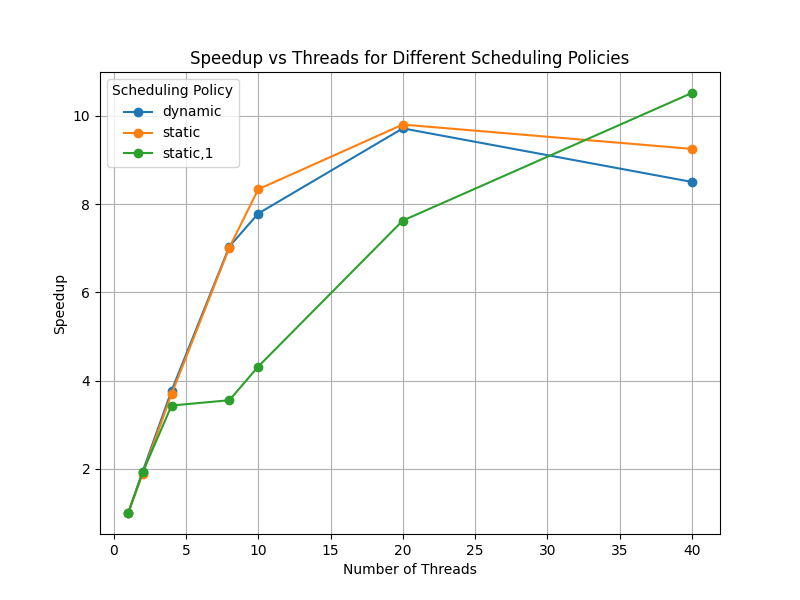
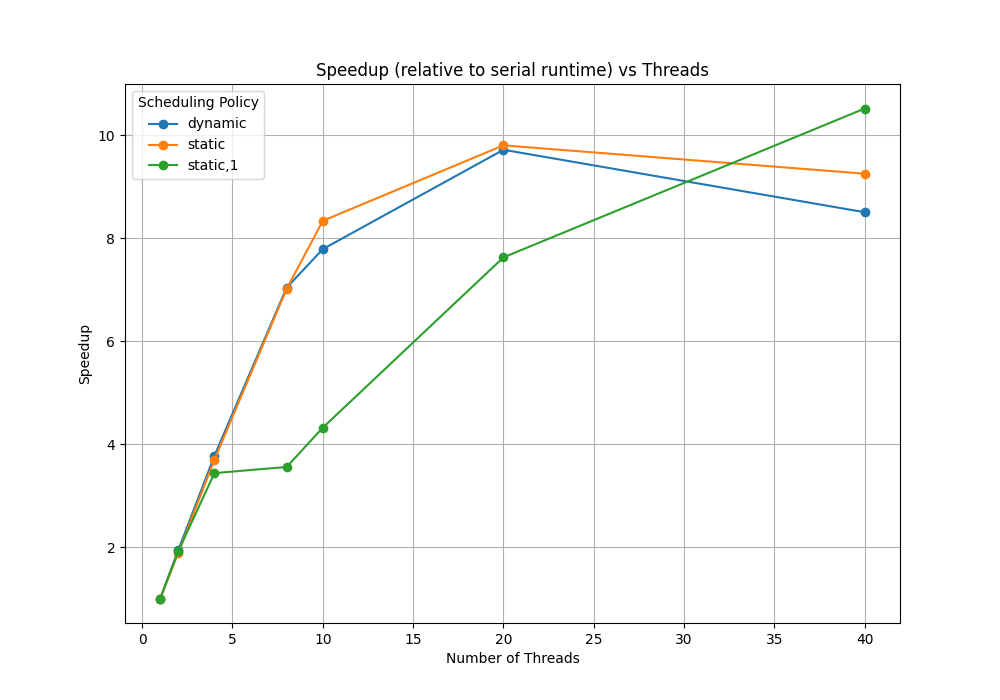
cleanup code and add plots

diff --git a/task4/results/plot.py b/task4/results/plot.py
@@ -1,48 +1,63 @@
 import csv
 import matplotlib.pyplot as plt
 
-file_name = "main"
-#file_name = "main_ex2"
+#change following to create different plot
+
+#file_name = "main"
+file_name = "main_ex2"
 
 file_path = f"results_{file_name}.txt"  
-
-# Initialize a dictionary to store data by policy
 data = {"dynamic": [], "static": [], "static_1": []}
 
-# Read the CSV file
+
 with open(file_path, newline='') as file:
     reader = csv.reader(file)
-    next(reader)  # Skip the header row
+    next(reader)  #skip first row
     for row in reader:
         threads, policy, runtime = int(row[0]), row[1], float(row[2])
         data[policy].append((threads, runtime))
 
-# Calculate speedup for each policy
+
 speedup_data = {}
 for policy in data:
-    # Get the runtime for 1 thread (serial execution)
+    #get the runtime for 1 thread (serial execution)
     serial_runtime = next(runtime for threads, runtime in data[policy] if threads == 1)
     
-    # Calculate speedup for each entry
+    #calculate speedup for each entry relative to the runtime with one thread
     speedup_data[policy] = [
         (threads, serial_runtime / runtime) for threads, runtime in data[policy]
     ]
 
-# Plot the speedup for each policy
-plt.figure(figsize=(8, 6))
+
+#Speedup Plot
+plt.figure(figsize=(10, 7))
 for policy, speedups in speedup_data.items():
-    # Separate the thread counts and speedup values
     threads = [entry[0] for entry in speedups]
     speedup = [entry[1] for entry in speedups]
     plt.plot(threads, speedup, marker="o", label=policy.replace("_", ","))
 
-# Add labels, legend, and title
 plt.xlabel("Number of Threads")
 plt.ylabel("Speedup")
-plt.title("Speedup vs Threads for Different Scheduling Policies")
+plt.title("Speedup (relative to serial runtime) vs Threads")
 plt.legend(title="Scheduling Policy")
 plt.grid(True)
 
-# Save and show the plot
 plt.savefig(f"speedup_plot_{file_name}.png")
+plt.show()
+
+
+#Runtime Plot
+plt.figure(figsize=(10, 7))
+for policy, runtimes in data.items():
+    threads = [entry[0] for entry in runtimes]
+    runtime = [entry[1] for entry in runtimes]
+    plt.plot(threads, runtime, marker="o", label=policy.replace("_", ","))
+
+plt.xlabel("Number of Threads")
+plt.ylabel("Runtime (seconds)")
+plt.title("Runtime vs Threads")
+plt.legend(title="Scheduling Policy")
+plt.grid(True)
+
+plt.savefig(f"runtime_plot_{file_name}.png")
 plt.show()

diff --git a/task4/results/read_results.py b/task4/results/read_results.py
@@ -1,7 +1,6 @@
 import os
 import re
 
-# Define file patterns and output file names
 policies = ["dynamic", "static", "static,1"]
 main_files = {policy: f"task4_results_{policy}_main.txt" for policy in policies}
 main_ex2_files = {policy: f"task4_results_{policy}_main_ex2.txt" for policy in policies}
@@ -9,7 +8,7 @@ main_ex2_files = {policy: f"task4_results_{policy}_main_ex2.txt" for policy in p
 output_main = "results_main.txt"
 output_main_ex2 = "results_main_ex2.txt"
 
-# Function to extract runtime from a file
+#get runtime from file
 def extract_runtime(file_path, pattern):
     data = []
     if os.path.exists(file_path):
@@ -19,14 +18,14 @@ def extract_runtime(file_path, pattern):
             for threads, runtime in matches:
                 data.append((int(threads), float(runtime)))
     else:
-        print(f"File not found: {file_path}")  # Debugging: Indicate missing file
+        print(f"File not found: {file_path}")
     return data
 
-# Regular expressions to match the runtime information
+#pattern for runtime extraction
 main_pattern = re.compile(r"Threads:\s+(\d+).*?TotalRuntime:\s+([\d.]+)\s+seconds", re.DOTALL)
 main_ex2_pattern = re.compile(r"Threads:\s+(\d+).*?Runtime:\s+([\d.]+)", re.DOTALL)
 
-# Collect and save results for main files
+#save results for main files
 with open(output_main, "w") as f_main:
     f_main.write("Threads,Policy,Runtime\n")
     for policy, file_path in main_files.items():
@@ -36,7 +35,7 @@ with open(output_main, "w") as f_main:
                 policy = "static_1"
             f_main.write(f"{threads},{policy},{runtime}\n")
 
-# Collect and save results for main_ex2 files
+# save results for main_ex2 files
 with open(output_main_ex2, "w") as f_main_ex2:
     f_main_ex2.write("Threads,Policy,Runtime\n")
     for policy, file_path in main_ex2_files.items():
